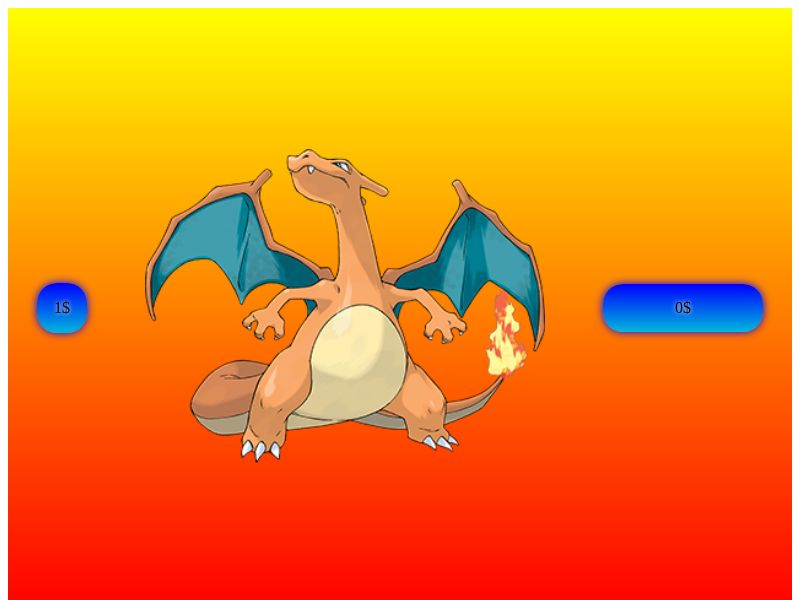
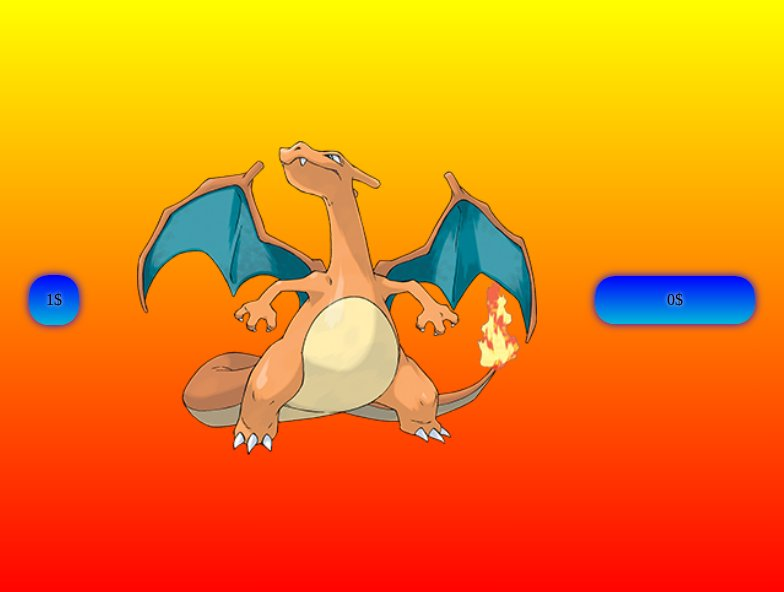
bug(thumb-images): clip thumb images, use jpg

Changed region(s): [[0.1531, 0.2128, 0.7041, 0.7905], [0.0, 0.0, 1.0, 1.0]]

diff --git a/src/services/pageThumbnail.ts b/src/services/pageThumbnail.ts
@@ -1,4 +1,5 @@
 import puppeteer from 'puppeteer';
+import sharp from 'sharp'
 
 export default async function pageThumbnail(repos: Array<any>) {
   console.log('Starting Browser');
@@ -10,11 +11,17 @@ export default async function pageThumbnail(repos: Array<any>) {
       if(repo.homepage == null) { continue }; 
       console.log(repo.homepage);
       await page.goto(repo.homepage);
-      await page.screenshot({
-	path: `./src/assets/img/thumb/${repo?.name}.jpg`,
-	type: 'jpeg',
-	quality: 80
+     const imageBuffer = await page.screenshot({
+	//path: `./src/assets/img/thumb/${repo?.name}.png`,
+	type: 'png',
+	//quality: 80,
+	omitBackground: true
       });
+      await sharp(imageBuffer)
+	.trim()
+	.flatten({ background: '#ffffff'})
+	.jpeg({quality: 85})
+	.toFile(`./src/assets/img/thumb/${repo?.name}.jpg`)
     } catch (error: unknown){
       if (error instanceof Error) {
 	 console.error('Screenshot failure', error); 
